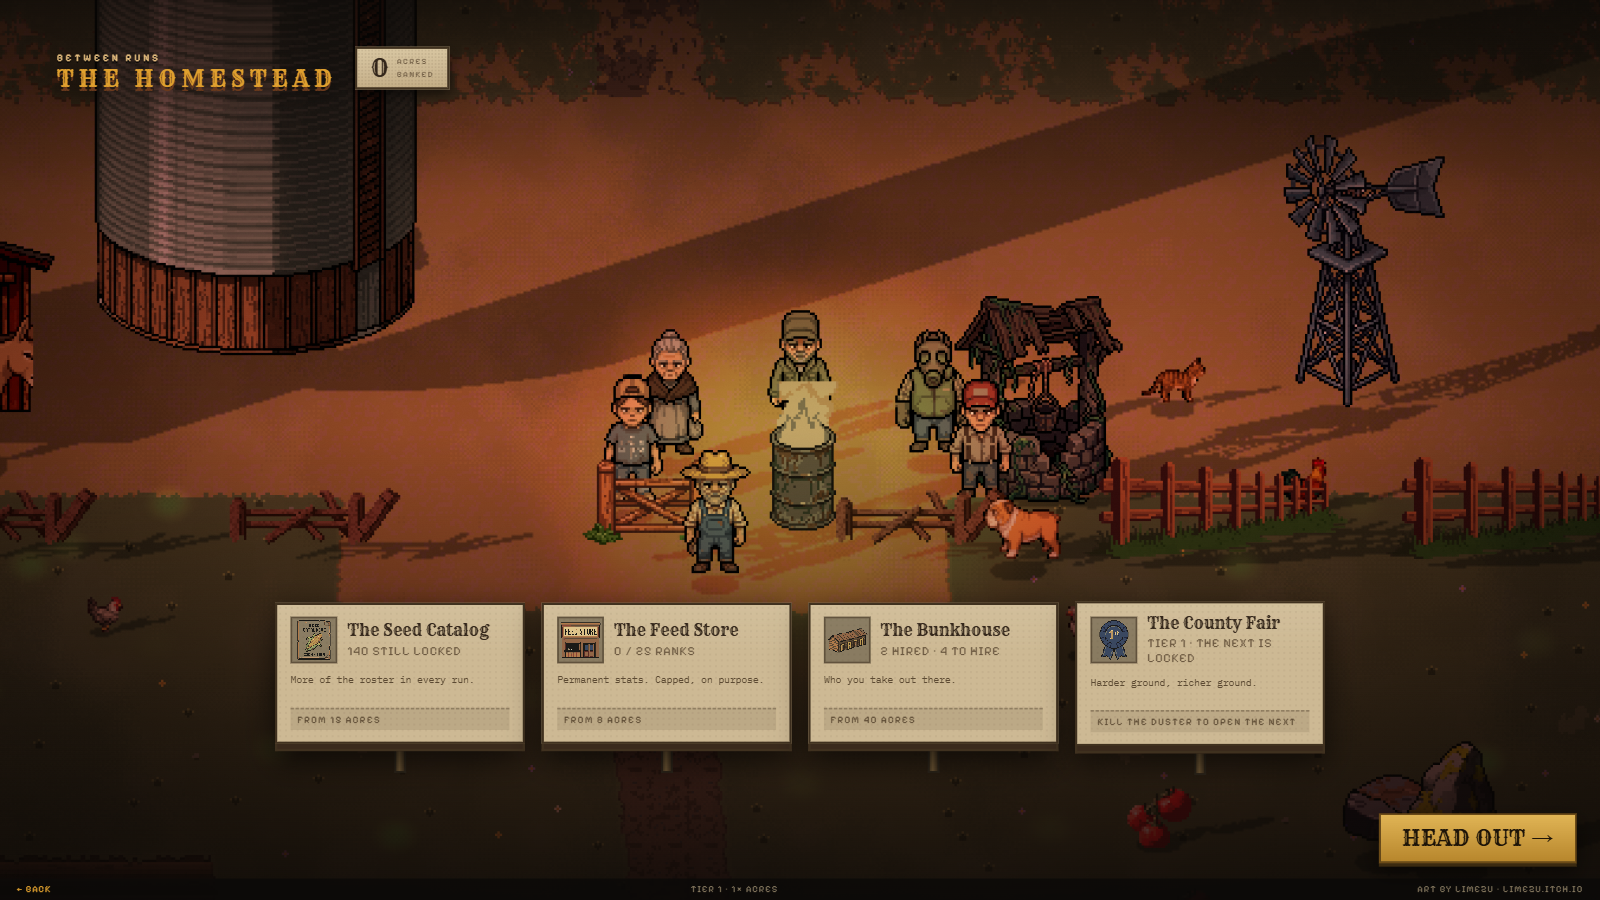
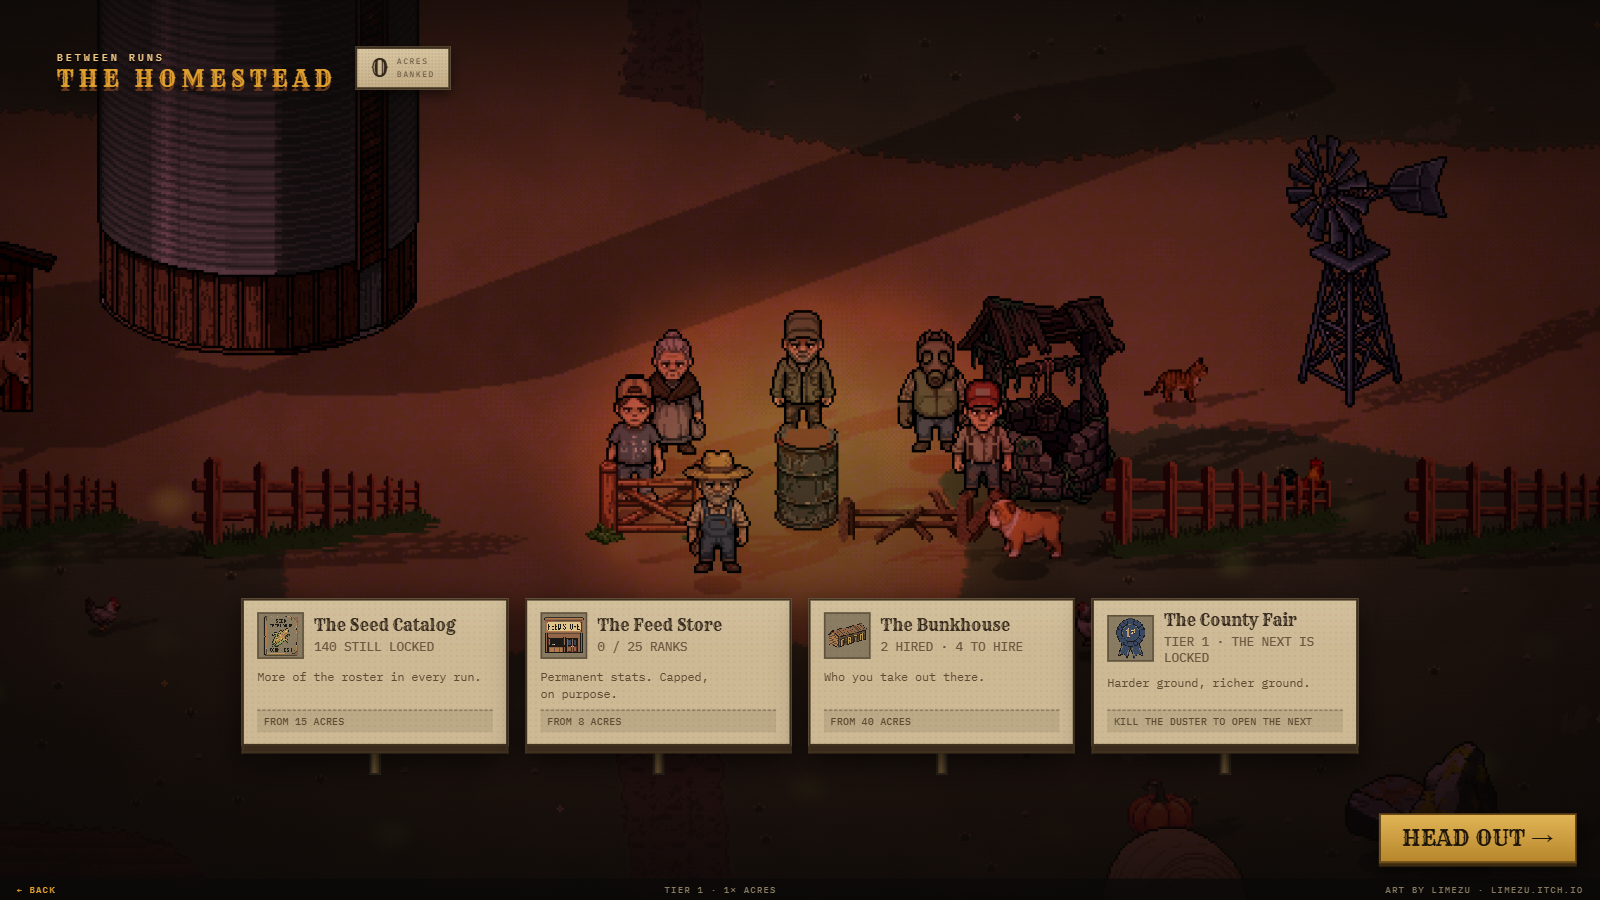
Critic round 18: seeds as small diamonds, the player drawn on top, a cooler pallor
A seed on the ground is a small outlined diamond in tuning.render.seed, not
the 16 px gem. The player and their kit draw last in the depth sort, dawn
carries a heavier warm mist, and the curse's pale is blue-grey so the crowd
separates from blighted ground.

diff --git a/src/render/gl-renderer.ts b/src/render/gl-renderer.ts
@@ -23,7 +23,7 @@ import { GLDevice, newCompositeParams } from './gl/device'
 import { dayProgress, evaluateDay, lightning, newDayState, rainAt } from './daylight'
 import { bakeLayout, buildBackdrop, groundTiles, placeOf, type Layout, type PlaceConfig } from './place'
 import { Target, parseColour, textureFrom } from './gl/glutil'
-import { PAGE_GLYPH, PAGE_SOLID } from './gl/sprites'
+import { PAGE_GLYPH, PAGE_SOLID, type SpriteBatch } from './gl/sprites'
 import { HAZARD_KIND } from './gl/hazards'
 import { FrameCache } from './frames'
 import {
@@ -52,6 +52,7 @@ const EYE_DAY = RENDER.eyeGlowDay ?? 0
 const XP_TINT = (RENDER_ANY.xpTint as number[] | undefined) ?? [1, 1, 1]
 const STAIN_KEEP = Math.max(1, Math.round(RENDER.stainKeep ?? 3))
 const CRIT_NUMBERS_ONLY = (RENDER as { damageNumbers?: string }).damageNumbers !== 'all'
+const SEED = (RENDER as unknown as { seed: { size: number; color: [number, number, number, number] } }).seed
 const STAIN_WEATHER = RENDER.stainWeather ?? 0.94
 const FX_SCALE = RENDER.fxScale ?? 1
 /** Seed value from which a merged seed draws big (see world.dropSeed). */
@@ -1711,15 +1712,24 @@ export class GLRenderer {
         const tr = xp ? XP_TINT[0] * dim : feed ? 1.14 : 1
         const tg = xp ? XP_TINT[1] * dim : feed ? 1.12 : 1
         const tb = xp ? XP_TINT[2] * dim : feed ? 1.04 : 1
-        if (xp && g.value >= XP_BIG) {
-          // A merged seed is a little pile of the same seeds, not one big
-          // one: the big seed's art is an oval with a swirl, and round 15
-          // read it as "blue eggs with numbers on them".
+        if (xp) {
+          // A seed is a small crisp diamond, not the 16 px gem: round 18 found
+          // the gems "as big as a chicken" and the field a soup of loot. A
+          // merged seed is a little pile of three (the big seed art read as
+          // an egg, round 15). Faintly self-lit and pulsing, so it reads as
+          // something to pick up without shouting over the fight.
           const rx = Math.round(x)
           const ry = Math.round(y + bob)
-          this.spr(f, rx - 4, ry + 1, 0, 0, 0, 1, 1, settle, 0, COL.outlineEnemy, tr, tg, tb)
-          this.spr(f, rx + 4, ry + 1, 0, 0, 0, 1, 1, settle, 0, COL.outlineEnemy, tr, tg, tb)
-          this.spr(f, rx, ry - 3, 0, 0, 0, 1, 1, settle, 0, COL.outlineEnemy, tr, tg, tb)
+          const pulse = 0.85 + 0.15 * Math.sin(this.world.elapsed * 5 + g.x * 0.07)
+          const glow = (0.12 + 0.25 * this.day.night) * pulse
+          const sc = SEED.color
+          if (g.value >= XP_BIG) {
+            this.seed(batch, rx - 4, ry + 1, settle, sc, glow)
+            this.seed(batch, rx + 4, ry + 1, settle, sc, glow)
+            this.seed(batch, rx, ry - 3, settle, sc, glow)
+          } else {
+            this.seed(batch, rx, ry, settle, sc, glow)
+          }
         } else {
           this.spr(f, Math.round(x), Math.round(y + bob), 0, 0, 0, 1, 1, settle, 0, COL.outlineEnemy, tr, tg, tb)
         }
@@ -1730,6 +1740,14 @@ export class GLRenderer {
           0, 1, 1, c[0], c[1], c[2], 1, 0, 0, 0, 0, 0, 0)
       }
     }
+  }
+
+  /** One seed: a 5 px square turned 45 degrees, with a dark 1 px outline. */
+  private seed(batch: SpriteBatch, x: number, y: number, a: number, c: RGBA, glow: number): void {
+    const s = SEED.size
+    const o = COL.outlineEnemy
+    batch.push(x, y, -s / 2, -s / 2, s, s, 0, 0, PAGE_SOLID, Math.PI / 4, 1, 1,
+      c[0], c[1], c[2], a, 0, glow, o[0], o[1], o[2], o[3], 0, 0)
   }
 
   private drawParticles(): void {

diff --git a/src/render/gl/sprites.ts b/src/render/gl/sprites.ts
@@ -156,7 +156,9 @@ void main() {
     // the eyes keep their colour, which is the point of them.
     float l = dot(c.rgb, vec3(0.3, 0.59, 0.11));
     // Bruised lilac-grey: the complement of every green the field is made of.
-    vec3 pale = vec3(l) * vec3(1.06, 0.86, 1.18) * 1.18 + vec3(0.05, 0.02, 0.06);
+    // Cooler since round 18: the pink-lilac sat in one hue band with the
+    // blighted ground of the afternoon ("mauve enemies on maroon dirt").
+    vec3 pale = vec3(l) * vec3(0.96, 0.9, 1.2) * 1.18 + vec3(0.03, 0.03, 0.07);
     c.rgb = mix(c.rgb, pale, curse * (1.0 - eye));
     c.rgb = mix(c.rgb, vec3(1.0, 0.86, 0.36), eye * curse * 0.6);
     // The spray's mark: blotches of chemical green on every cursed body, in

diff --git a/docs/V2.md b/docs/V2.md
@@ -295,7 +295,12 @@ depth-sorted crowd, so a zombie in front of him no longer hides him; tree
 canopies still draw over him. The Duster is new art: a pixflux generation at
 256 px, one art pixel per world pixel like the cast, replacing a plane that
 was redrawn from a 128 px reference and kept its chunky pixels. Its moon rim
-is dimmer and cooler, and the Duster's gas no longer casts its own light.
+is dimmer and cooler, and the Duster's gas no longer casts its own light. A
+seed on the ground is a small outlined diamond (`tuning.render.seed`), not
+the 16 px gem the reviewer found "as big as a chicken"; dawn carries a
+heavier warm mist; and the curse's pallor is cooler, blue-grey rather than
+pink-lilac, so the crowd separates from the blighted ground of the
+afternoon as well as from the grass.
 
 ## Milestones
 
